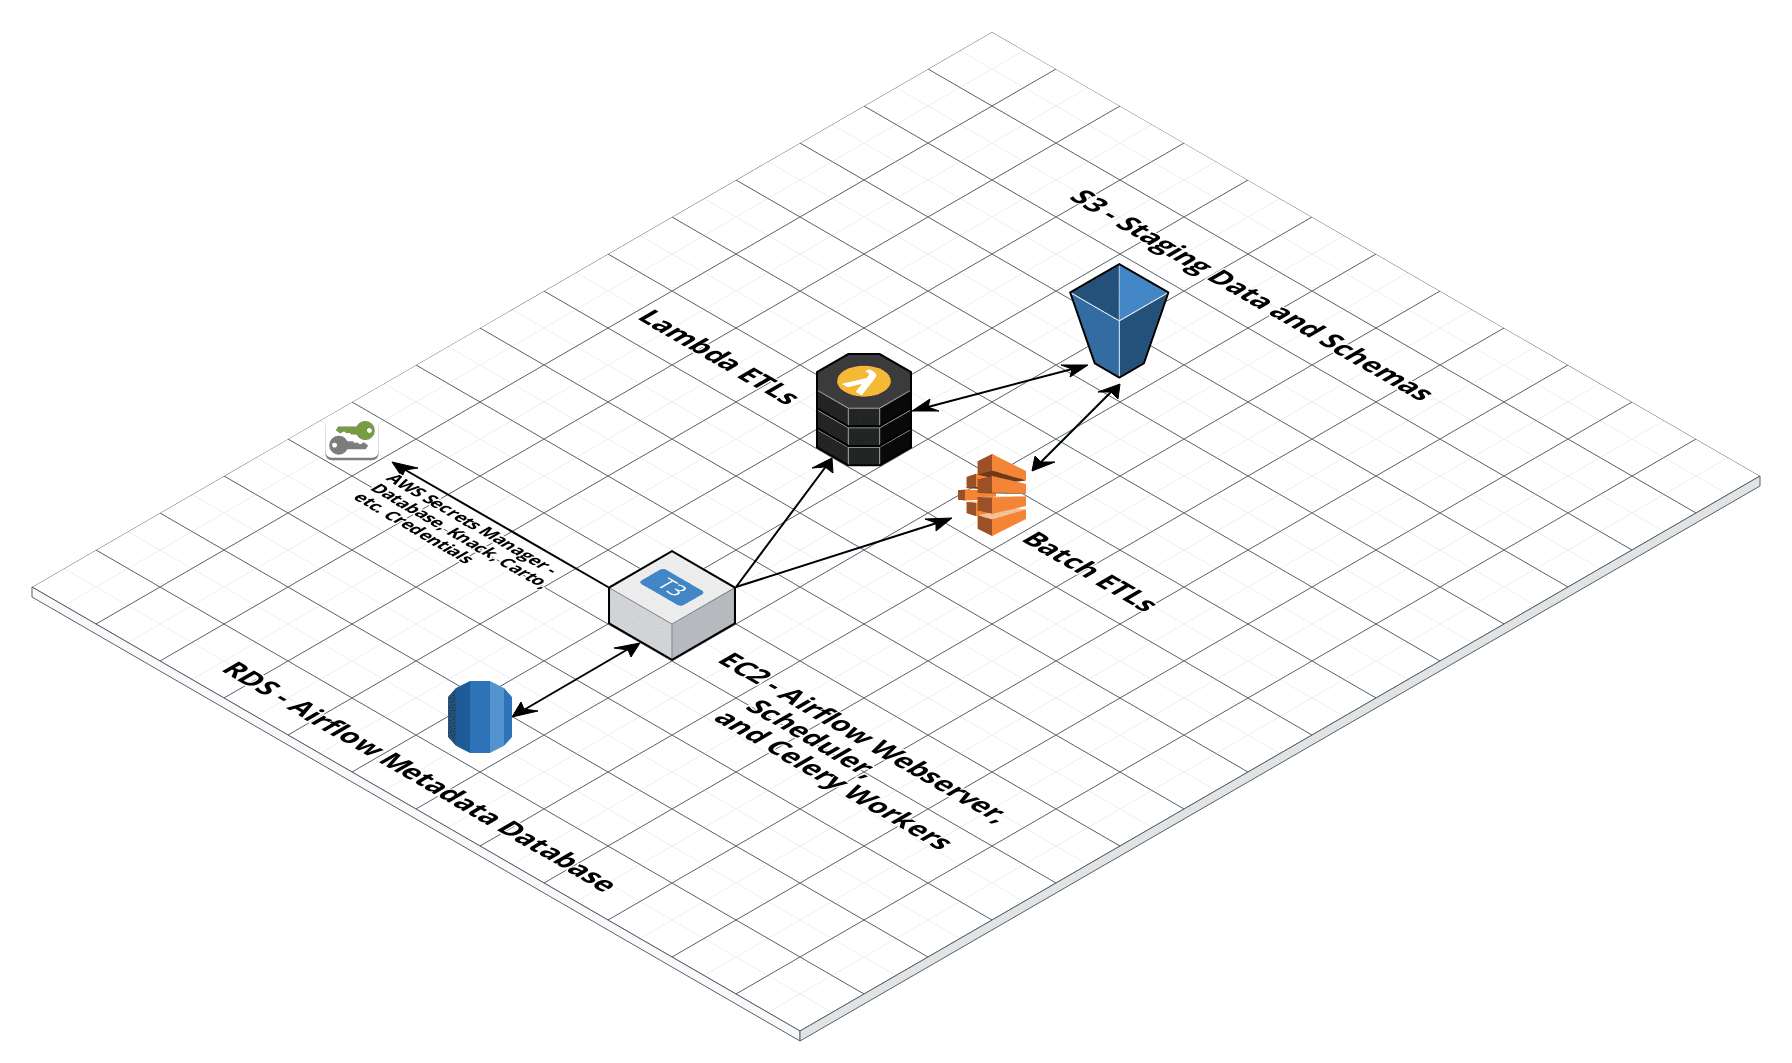
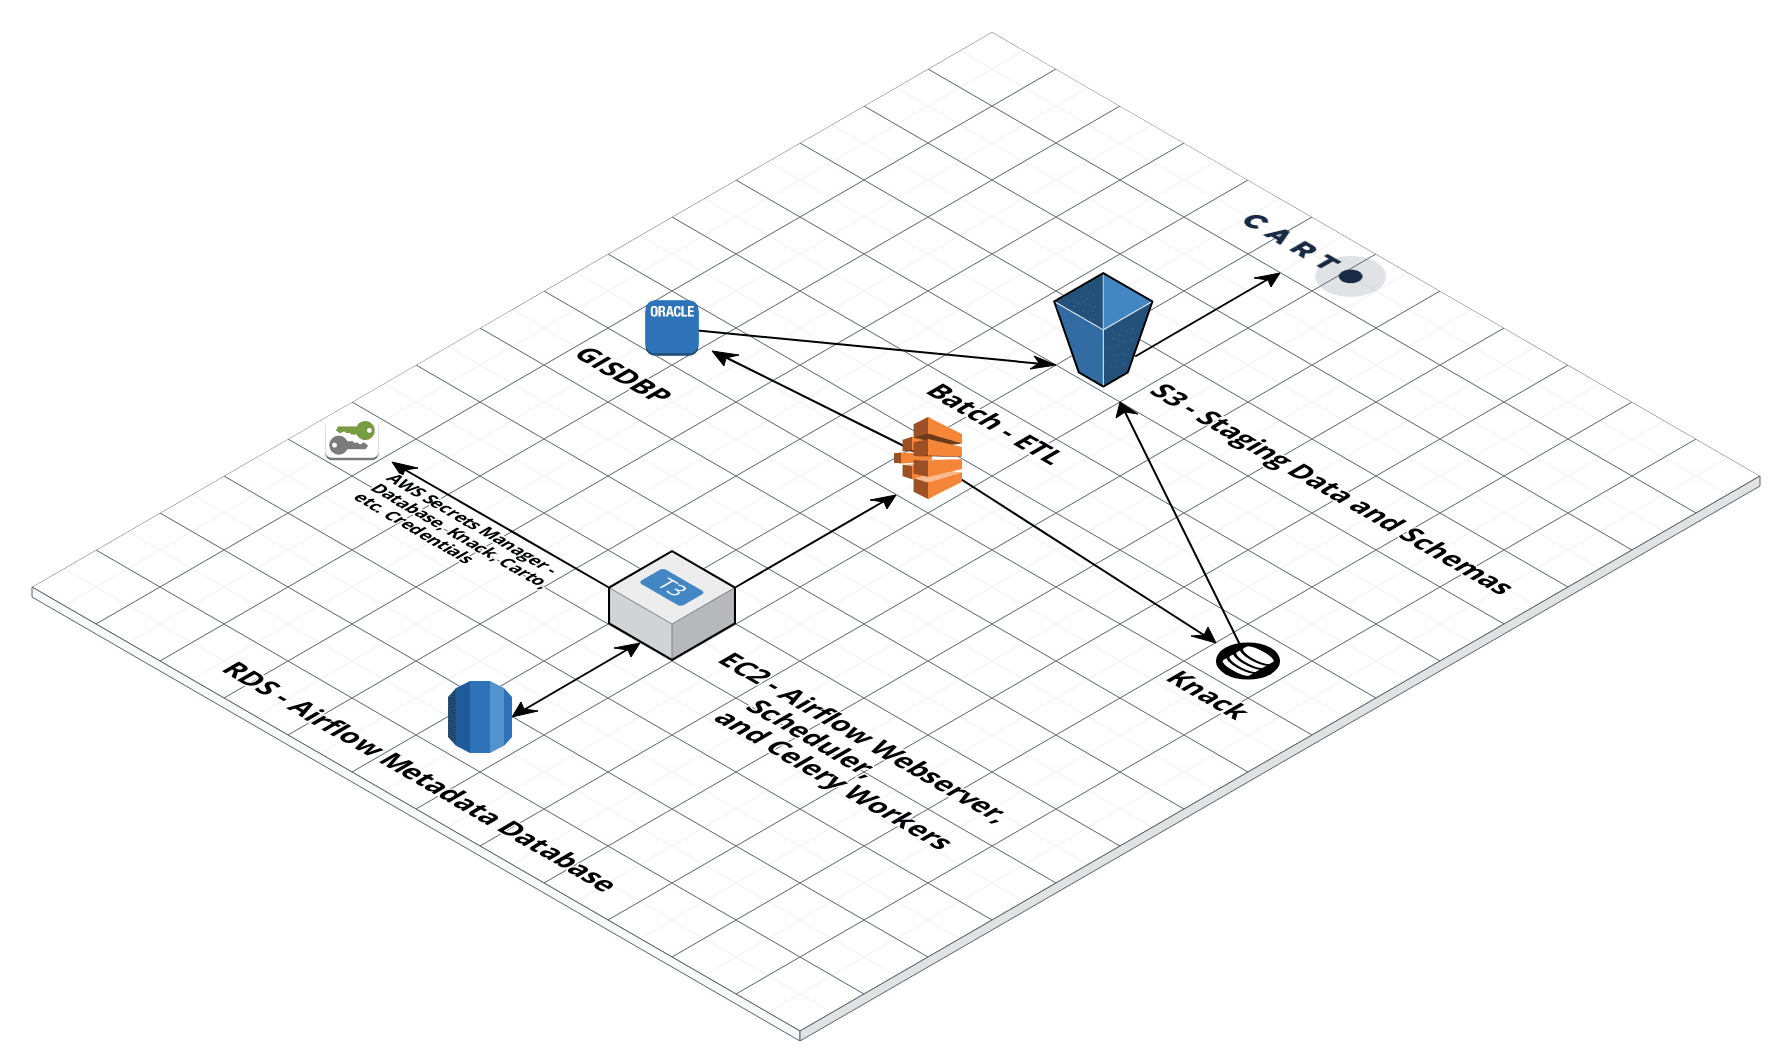
Add more detail to README and improve Airflow.png

diff --git a/README.md b/README.md
@@ -4,19 +4,24 @@
 Airflow instance for ETL's involving Databridge
 
 ## Goal
-- Load data from the Oracle SDE version of DataBridge into the new Postgres DataBridge (DataBridge2).
-- Geo-enrich data in DataBridge2
-- Provide data quality checks to ensure empty tables or tables with missing data are not pushed to production
-- Load data into Carto DB
+- Load data into Carto DB to provide API endpoints for Open Data Philly and application development
 
 ## Overview
 - Jobs are scheduled and triggered by Airflow
-- Jobs consist of data extraction, transformation, and loading - primarily through using [databridge-etl-tools](https://github.com/CityOfPhiladelphia/databridge-etl-tools) and [extract-knack](https://github.com/CityOfPhiladelphia/extract-knack) in AWS Batch and Lambda.
-- Jobs are pushed to a RabbitMQ task queue by Airflow
-- Airflow stores encrypted database credentials and other metadata in a Postgres database
-- All secrets (database credentials, slack API keys, carto API keys) are stored in AWS Secrets Manager. These are fetched from AWS Secrets Manager when Airflow is launched.
+- Airflow stores encrypted database credentials and other metadata in a Postgres database. This database is seeded with secrets (database credentials, slack API keys, carto API keys) from AWS Secrets Manager.
+- Airflow kicks off jobs in AWS Batch, consisting of two tasks:
+    - Extract data from Databridge or Knack and load it into S3 
+    - Load data from S3 to Carto.
+- The job in AWS Batch uses the following command line tools to execute the task:
+    - [databridge-etl-tools](https://github.com/CityOfPhiladelphia/databridge-etl-tools)
+    - [extract-knack](https://github.com/CityOfPhiladelphia/extract-knack)
 
 ![airflow-layout](assets/Airflow.png)
+
+## How AWS Batch Jobs Work
+- First [read the docs](https://docs.aws.amazon.com/batch/latest/userguide/what-is-batch.html) to understand what AWS Batch is at a high level. AWS Batch allows you to run a batch computing job in a containerized environment on AWS. Batch takes care of the autoscaling to create instances when jobs are launched and terminate them when jobs complete.
+- Jobs are launched from job definitions. A job definition consists of some configuration for a job. In our case, the most important thing noted in a job definition is the specification of which Docker image to use. Docker images are stored in [AWS ECR](https://aws.amazon.com/ecr/). There is one docker image and job definition for [databridge-etl-tools](https://github.com/CityOfPhiladelphia/databridge-etl-tools) and another for [extract-knack](https://github.com/CityOfPhiladelphia/extract-knack).
+- Jobs require a command to know what to execute. The job will terminate when the execution completes. For this project, commands consist of the commands used to run [databridge-etl-tools](https://github.com/CityOfPhiladelphia/databridge-etl-tools) and [extract-knack](https://github.com/CityOfPhiladelphia/extract-knack), as detailed in their respective Github repositories.
 
 ## Requirements
 - docker-compose
@@ -35,7 +40,7 @@ docker-compose -f docker-compose.dev.yml up
 ```
 
 ## Deployment
-- Automated deployment is done by Travis CI and AWS Code Deploy. Anytime a commit is made to the master branch, a Travis CI job runs which tests airflow and redeploys it to a production EC2 instance. For this reason, make sure any development takes place on a branch and is thoroughly QA'd before merging to master. Notifications as to the status of the deployment are posted to #airflow-prod.
+- Automated deployment is done by Travis CI and AWS Code Deploy. Anytime a commit is made to the master branch, a Travis CI job runs which tests airflow and redeploys it to a production EC2 instance. For this reason, make sure any development takes place on a branch and is thoroughly QA'd before merging to master. Notifications as to the status of the deployment are posted to #airflow-prod in Slack.
 
 - If you're launching a production environment for the first time, pass the SEED_DB environment variable to seed the RDS database:
 ```bash
